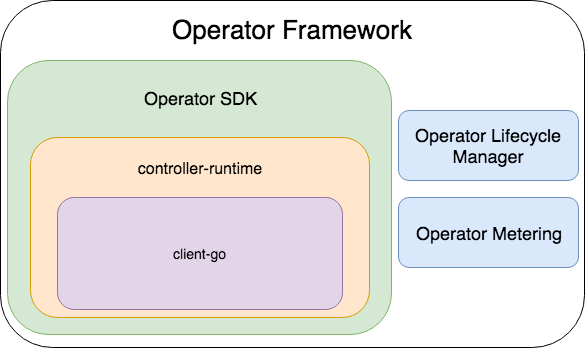
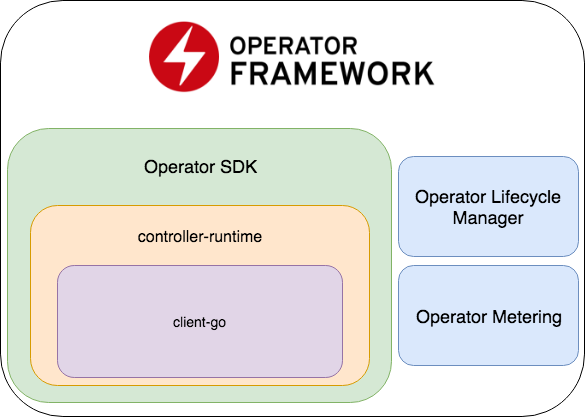
operator framework scheme updated

diff --git a/pkg/controller/upgrade/upgrade_controller.go b/pkg/controller/upgrade/upgrade_controller.go
@@ -130,7 +130,7 @@ func (r *ReconcileUpgrade) Reconcile(request reconcile.Request) (reconcile.Resul
 			reqLogger.Error(err, "Failed to create new Deployment", "Deployment.Namespace", dep.Namespace, "Deployment.Name", dep.Name)
 			return reconcile.Result{}, err
 		}
-		// Deployment created successfully - return and requeue
+		// Deployment created successfully - return and requeue request
 		return reconcile.Result{Requeue: true}, nil
 	}  else if err != nil {
 		reqLogger.Error(err, "Failed to get Deployment")
